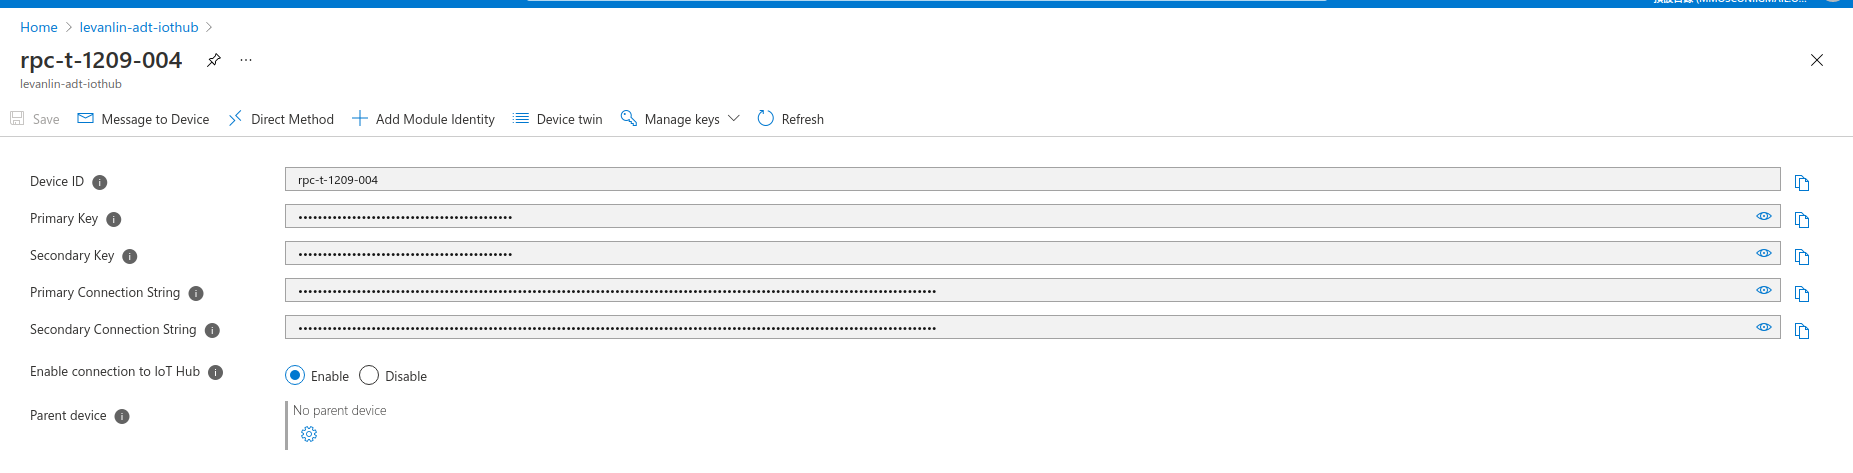
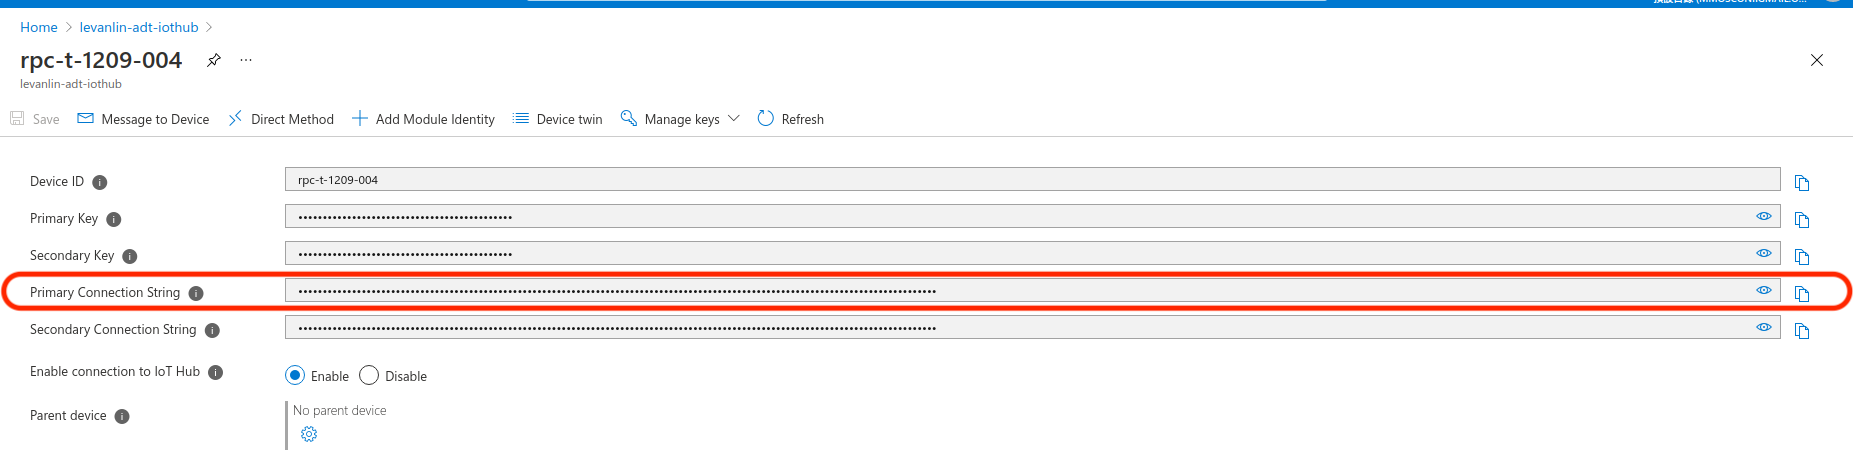
Update

Changed region(s): [[0.0, 0.5624, 1.0, 0.6808]]

diff --git a/README.md b/README.md
@@ -245,6 +245,10 @@ The sample repo contains:
         ```
         IOTHUB_DEVICE_CONNECTION_STRING_DEV="HostName=here-your-azure-iothub.net;SharedAccessKeyName=iothubowner;SharedAccessKey=your-device-key01"
         ```
+        * Get Primary Connection String
+          ![](./Image/iothub2.png)
+          ![](./Image/iothub1.png)
+
     * **3. Run Python**
       ```
       $ python3 rpc_pnp.py
